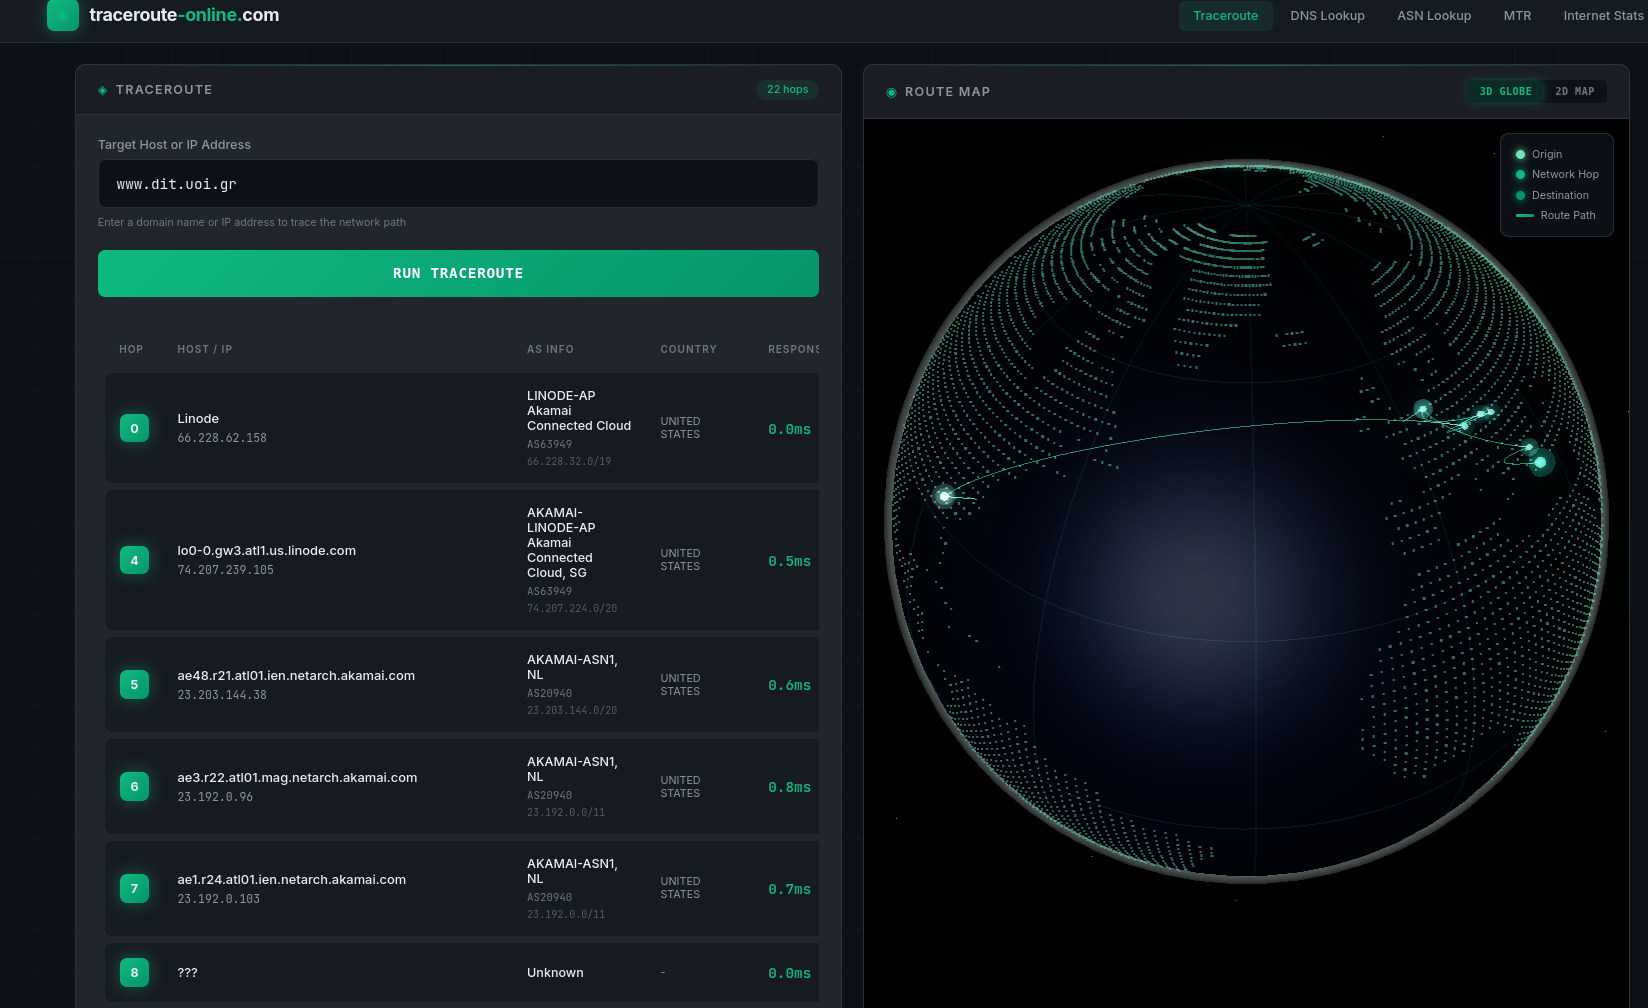
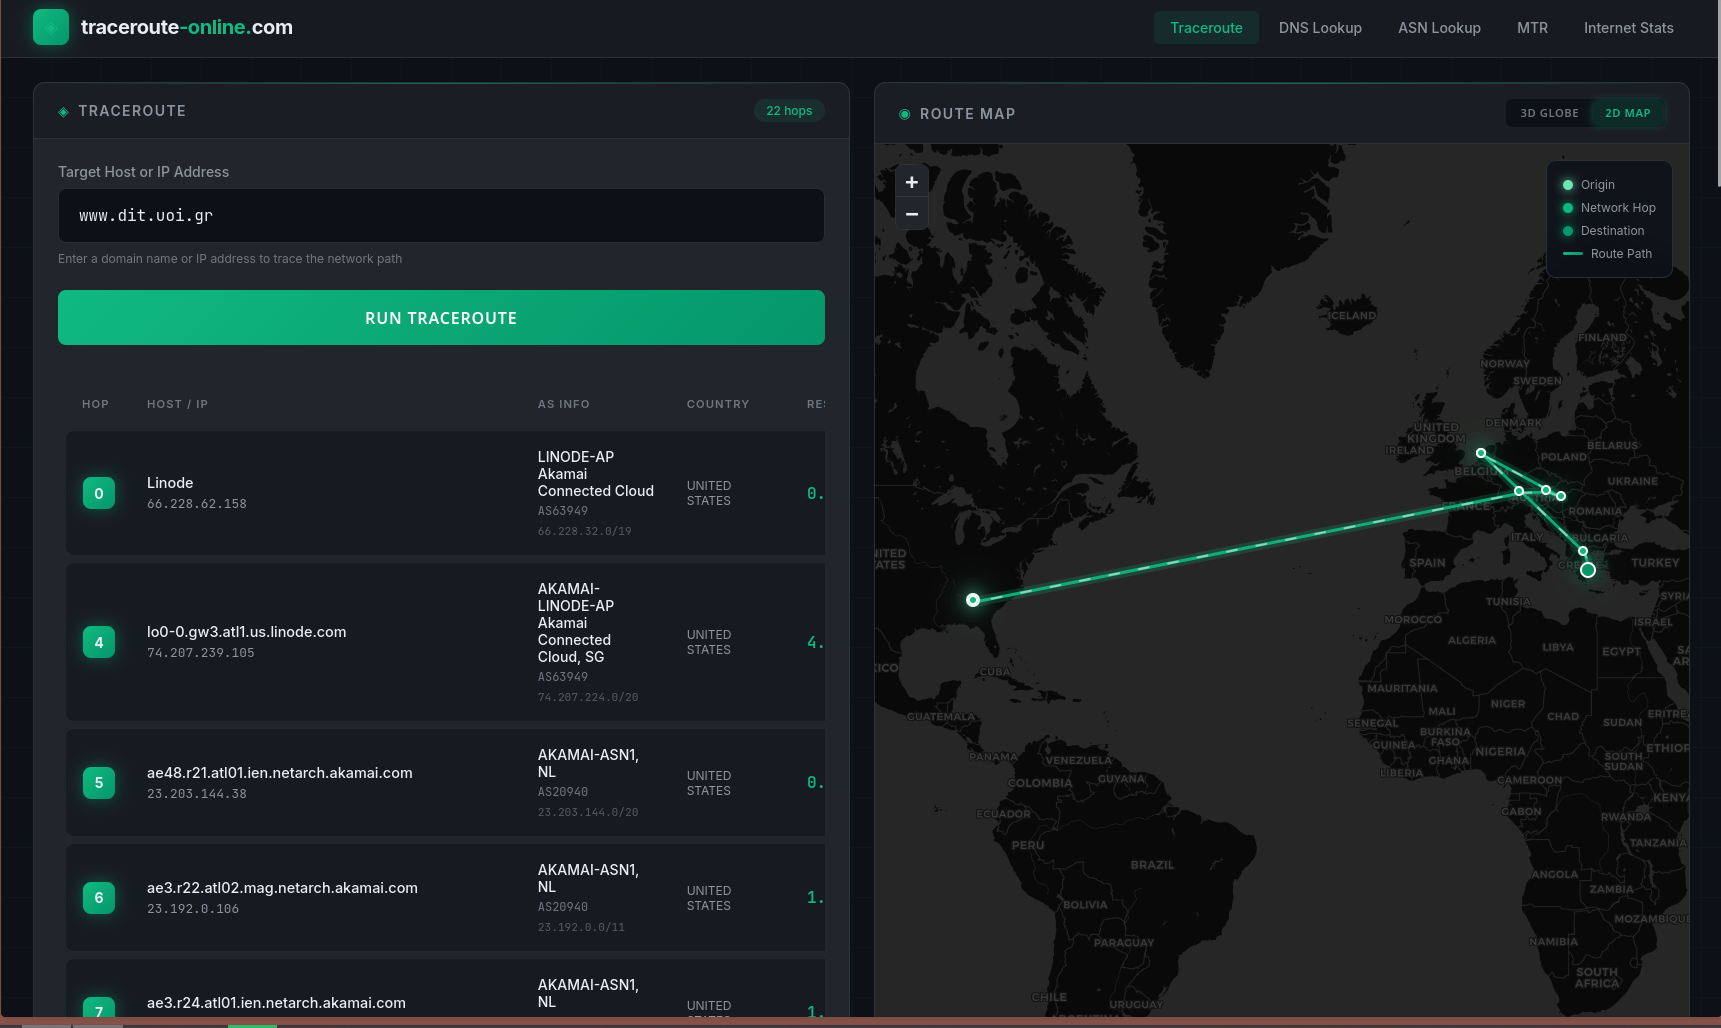
update `HW_v1` solution for Computer Networks.

diff --git a/Year_2/Semester_4/COMPUTER_NETWORKS/Exercises/HW_v1_solution_PanagopoulosNikolaos_3323.md b/Year_2/Semester_4/COMPUTER_NETWORKS/Exercises/HW_v1_solution_PanagopoulosNikolaos_3323.md
@@ -307,22 +307,61 @@ traceroute to www.google.com (142.251.209.36), 30 hops max, 60 byte packets
 
 ### **Στόχος 1: www.dit.uoi.gr**
 ![Διαδρομή traceroute προς www.dit.uoi.gr](images/imageDIT.png)
+
+| Hop | Host / IP | AS Info | Country | Response |
+|-----|-----------|---------|---------|----------|
+| 0 | Linode 66.228.62.158 | LINODE-AP Akamai Connected Cloud AS63949 66.228.32.0/19 | United States | 0.0ms |
+| 4 | lo0-0.gw3.atl1.us.linode.com 74.207.239.105 | AKAMAI-LINODE-AP Akamai Connected Cloud, SG AS63949 74.207.224.0/20 | United States | 4.8ms |
+| 5 | ae48.r21.atl01.ien.netarch.akamai.com 23.203.144.38 | AKAMAI-ASN1, NL AS20940 23.203.144.0/20 | United States | 0.6ms |
+| 6 | ae3.r22.atl02.mag.netarch.akamai.com 23.192.0.106 | AKAMAI-ASN1, NL AS20940 23.192.0.0/11 | United States | 1.1ms |
+| 7 | ae3.r24.atl01.ien.netarch.akamai.com 23.192.0.119 | AKAMAI-ASN1, NL AS20940 23.192.0.0/11 | United States | 1.2ms |
+| 8 | ??? | Unknown | - | 0.0ms |
+| 9 | ??? | Unknown | - | 0.0ms |
+| 10 | be8804.ccr41.atl01.atlas.cogentco.com 154.54.2.169 | COGENT-174 - Cogent Communications, LLC, US AS174 154.48.0.0/12 | United States | 1.7ms |
+| 11 | port-channel3482.ccr91.dca04.atlas.cogentco.com 154.54.169.177 | COGENT-174 - Cogent Communications, LLC, US AS174 154.48.0.0/12 | United States | 17.6ms |
+| 12 | be2261.ccr41.par01.atlas.cogentco.com 154.54.47.166 | COGENT-174 - Cogent Communications, LLC, US AS174 154.48.0.0/12 | United States | 96.3ms |
+| 13 | be4975.ccr41.fra05.atlas.cogentco.com 154.54.63.69 | COGENT-174 - Cogent Communications, LLC, US AS174 154.48.0.0/12 | United States | 105.4ms |
+| 14 | be5516.ccr21.muc03.atlas.cogentco.com 154.54.62.122 | COGENT-174 - Cogent Communications, LLC, US AS174 154.48.0.0/12 | Germany | 113.0ms |
+| 15 | be5456.ccr81.vie01.atlas.cogentco.com 154.54.72.166 | COGENT-174 - Cogent Communications, LLC, US AS174 154.48.0.0/12 | Austria | 117.6ms |
+| 16 | be9463.ccr21.bts01.atlas.cogentco.com 154.54.72.169 | COGENT-174 - Cogent Communications, LLC, US AS174 154.48.0.0/12 | United States | 118.0ms |
+| 17 | be3261.ccr31.bud01.atlas.cogentco.com 130.117.3.138 | COGENT-174 - Cogent Communications, LLC, US AS174 130.117.0.0/16 | United States | 120.3ms |
+| 18 | be2246.rcr51.b020664-1.bud01.atlas.cogentco.com 130.117.1.14 | COGENT-174 - Cogent Communications, LLC, US AS174 130.117.0.0/16 | United States | 120.5ms |
+| 19 | 149.6.182.114 | COGENT-174 - Cogent Communications, LLC, US AS174 149.6.0.0/15 | Hungary | 119.9ms |
+| 20 | grnet-ias-gw.rt1.ath2.gr.geant.net 83.97.89.66 | GEANT_IAS_VRF, NL AS21320 83.97.88.0/21 | Netherlands | 147.2ms |
+| 21 | grnet-ias.rt1.ath2.gr.geant.net 83.97.89.67 | GEANT_IAS_VRF, NL AS21320 83.97.88.0/21 | Netherlands | 150.0ms |
+| 22 | ??? | Unknown | - | 0.0ms |
+| 23 | gnt4-0801.yp3.grnet.gr 62.217.92.35 | GR-NET www.grnet.gr, GR AS5408 62.217.64.0/18 | Greece | 148.1ms |
+| 24 | www.dit.uoi.gr 83.212.170.184 | GR-NET www.grnet.gr, GR AS5408 83.212.170.0/23 | Greece | 148.2ms |
 *   **Τοποθεσία Hop 11:**
     ```
-    Washington D.C., United States (dca04.atlas.cogentco.com)
+    Washington D.C., United States (port-channel3482.ccr91.dca04.atlas.cogentco.com)
     ```
 *   **Τοποθεσία Hop 16:**
     ```
-    Bratislava, Slovakia (bts01.atlas.cogentco.com)
+    Bratislava, Slovakia (be9463.ccr21.bts01.atlas.cogentco.com)
     ```
 
 *   **Σχόλια:**
-    Αυτή η διαδρομή δείχνει ένα διηπειρωτικό ταξίδι. Το πακέτο ταξιδεύει από την Ατλάντα στην Washington D.C., όπου παρατηρείται σημαντική αύξηση καθυστέρησης (από 17ms σε 94ms), υποδεικνύοντας διατλαντική διέλευση προς το Παρίσι. Στη συνέχεια διασχίζει αρκετές ευρωπαϊκές πόλεις (Φρανκφούρτη, Μόναχο, Βιέννη, Βρατισλάβα, Βουδαπέστη) μέσω Cogent πριν εισέλθει στο δίκτυο GEANT/GR-NET για να φτάσει στην Ελλάδα.
+    Αυτή η διαδρομή δείχνει το πακέτο να ταξιδεύει από την Ατλάντα στην Washington D.C., όπου παρατηρείται σημαντική αύξηση καθυστέρησης (από 17.6ms σε 96.3ms), υποδεικνύοντας διατλαντική διέλευση προς το Παρίσι (Hop 12). Στη συνέχεια διασχίζει ευρωπαϊκές πόλεις (Φρανκφούρτη, Μόναχο, Βιέννη, Βρατισλάβα, Βουδαπέστη) μέσω Cogent πριν εισέλθει στο δίκτυο GEANT/GR-NET για να φτάσει στην Ελλάδα. 
+    
+    - Σημείωση: Ο πίνακας καταγράφει λανθασμένα πολλούς ευρωπαϊκούς κόμβους (όπως Hop 12, 13 και 16) ως United States λόγω ανακριβών δεδομένων GeoIP.
 
 ---
 
 ### **Στόχος 2: www.unimelb.edu.au**
 ![Διαδρομή traceroute προς www.unimelb.edu.au](images/imageMELB.png)
+
+| Hop | Host / IP | AS Info | Country | Response |
+|-----|-----------|---------|---------|----------|
+| 0 | Linode 66.228.62.158 | LINODE-AP Akamai Connected Cloud AS63949 66.228.32.0/19 | United States | 0.0ms |
+| 4 | lo0-0.gw4.atl1.us.linode.com 74.207.239.106 | AKAMAI-LINODE-AP Akamai Connected Cloud, SG AS63949 74.207.224.0/20 | United States | 7.4ms |
+| 5 | ae45.r22.atl01.ien.netarch.akamai.com 23.203.144.36 | AKAMAI-ASN1, NL AS20940 23.203.144.0/20 | United States | 0.5ms |
+| 6 | ae4.r22.atl02.mag.netarch.akamai.com 23.192.0.110 | AKAMAI-ASN1, NL AS20940 23.192.0.0/11 | United States | 1.1ms |
+| 7 | ae3.r23.atl01.ien.netarch.akamai.com 23.192.0.115 | AKAMAI-ASN1, NL AS20940 23.192.0.0/11 | United States | 0.8ms |
+| 8 | a23-203-144-239.deploy.static.akamaitechnologies.com 23.203.144.239 | AKAMAI-ASN1, NL AS20940 23.203.144.0/20 | United States | 1.6ms |
+| 9 | 108.162.235.103 | CLOUDFLARENET - Cloudflare, Inc., US AS13335 108.162.235.0/24 | United States | 1.9ms |
+| 10 | 2.58.104.10 | SQUIZ-AS-AP Squiz Pty Ltd, AU AS55532 2.58.104.0/24 | - | 1.2ms |
+
 *   **Τοποθεσία Hop 11:**
     ```
     N/A (Ο προορισμός επιτεύχθηκε στο Hop 10)
@@ -332,9 +371,7 @@ traceroute to www.google.com (142.251.209.36), 30 hops max, 60 byte packets
     N/A (Ο προορισμός επιτεύχθηκε στο Hop 10)
     ```
 *   **Σχόλια:**
-    
-    Παρόλο που ο στόχος είναι αυστραλιανό πανεπιστήμιο, το traceroute είναι πολύ σύντομο (10 hops) και ο χρόνος απόκρισης είναι πολύ χαμηλός (1.0ms). Αυτό υποδηλώνει ότι το αίτημα δεν ταξίδεψε ποτέ πραγματικά στην Αυστραλία αλλά αντίθετα, εξυπηρετήθηκε από τοπικό κόμβο CDN (Squiz/Cloudflare) κοντά στην Ατλάντα της Τζόρτζια, όπου φιλοξενείται στιγμιότυπο (instance) της Linode.
-    
+    Παρόλο που ο στόχος είναι αυστραλιανό πανεπιστήμιο, το traceroute είναι πολύ σύντομο (10 hops) και ο χρόνος απόκρισης είναι πολύ χαμηλός (1.2ms). Αυτό υποδηλώνει ότι το αίτημα δεν ταξίδεψε ποτέ πραγματικά στην Αυστραλία αλλά αντίθετα, εξυπηρετήθηκε από τοπικό κόμβο CDN (Squiz/Cloudflare) κοντά στην Ατλάντα της Τζόρτζια, όπου φιλοξενείται στιγμιότυπο της Linode.
 
 ---
 
